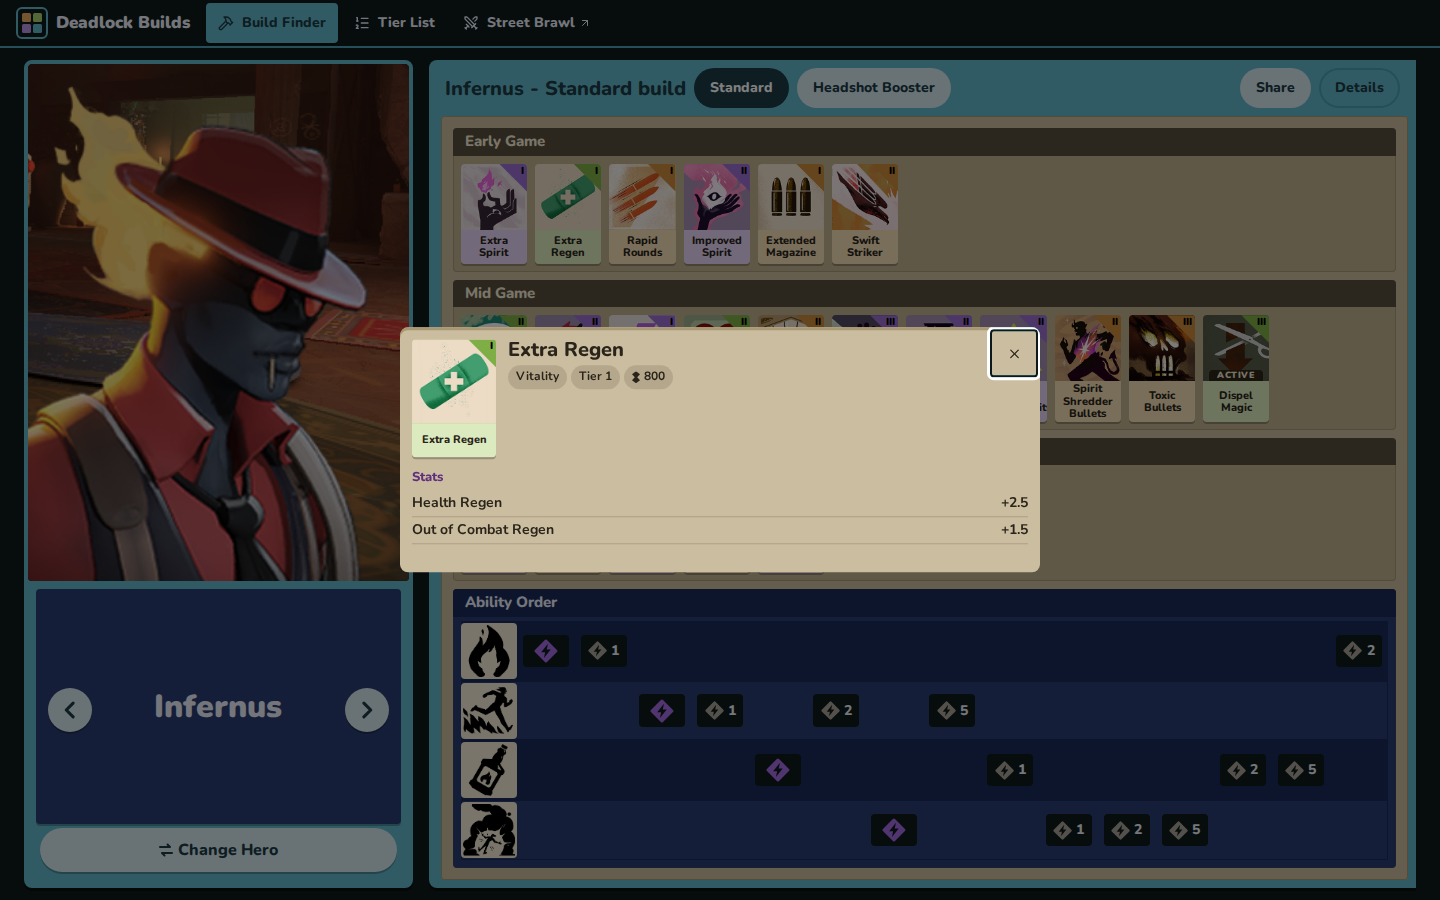
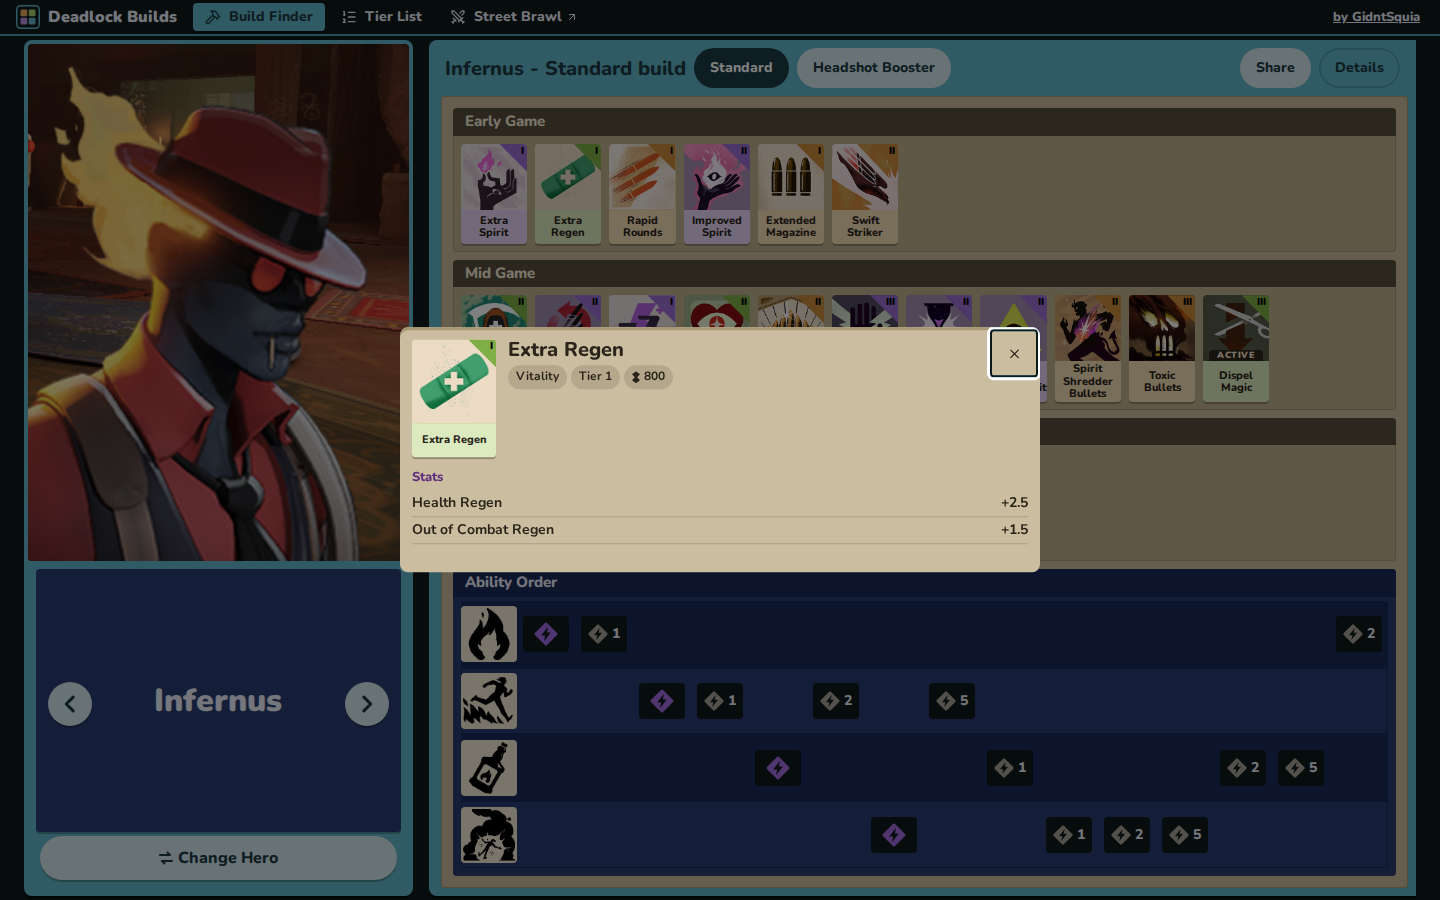
Shorter nav, tighter gap, one-screen tier list, GidntSquia credit
Claude-Session: https://claude.ai/code/session_01Riv5QGJH14bT5qykW2qV5o

diff --git a/src/index.css b/src/index.css
@@ -86,7 +86,7 @@
   --row-head: #564d3d;
   --row-head-ink: #f4ead3;
   --row-body: #bfb08f;
-  --nav-h: 48px;
+  --nav-h: 36px;
   --pill: #d3e6ec;
   --frame-edge: #4a9db2;
 
@@ -856,24 +856,24 @@ button.tile:hover {
   .screen {
     --tile: clamp(64px, min(4.6vw, calc((100vh - var(--nav-h)) * 0.088)), 112px);
     display: grid;
-    --side-w: clamp(220px, min(27vw, calc((100dvh - var(--nav-h) - 24px - 200px) * 0.737)), 600px);
+    --side-w: clamp(220px, min(27vw, calc((100dvh - var(--nav-h) - 8px - 200px) * 0.737)), 600px);
     grid-template-columns: var(--side-w) minmax(0, 1fr);
     gap: 16px;
     align-items: start;
     max-width: 2000px;
     margin: 0 auto;
-    padding: 12px 24px;
+    padding: 4px 24px;
   }
   .hero-side {
     display: block;
     position: sticky;
-    top: 12px;
+    top: 4px;
   }
   .hero-card {
     position: relative;
     display: flex;
     flex-direction: column;
-    height: calc(100dvh - var(--nav-h) - 24px);
+    height: calc(100dvh - var(--nav-h) - 8px);
     width: 100%;
     border-radius: var(--radius-md);
     background: var(--teal);
@@ -927,7 +927,7 @@ button.tile:hover {
     display: inline-flex;
     position: absolute;
     /* centre of the name plate: below the portrait, above the Change Hero button */
-    top: calc((4px + (var(--side-w) - 8px) * 0.5 * 380 / 140 + 8px + 100dvh - var(--nav-h) - 24px - 4px - 60px) / 2 - 22px);
+    top: calc((4px + (var(--side-w) - 8px) * 0.5 * 380 / 140 + 8px + 100dvh - var(--nav-h) - 8px - 4px - 60px) / 2 - 22px);
   }
   .hero-arrow.prev {
     left: 20px;
@@ -982,7 +982,7 @@ button.tile:hover {
   .frame {
     padding: 0 8px 8px 12px;
     border-radius: var(--radius-md) 0 0 var(--radius-md);
-    min-height: calc(100dvh - var(--nav-h) - 24px);
+    min-height: calc(100dvh - var(--nav-h) - 8px);
     display: flex;
     flex-direction: column;
   }
@@ -1055,19 +1055,28 @@ button.tile:hover {
   align-items: center;
   gap: 8px;
   flex: none;
-  min-width: 40px;
-  min-height: 40px;
-  padding: 4px 8px 4px 4px;
+  min-width: 32px;
+  min-height: 32px;
+  padding: 0 8px 0 4px;
   color: var(--navy-ink);
   text-decoration: none;
   font-weight: 900;
-  font-size: 17px;
+  font-size: 16px;
   white-space: nowrap;
 }
 .nav-brand img {
   display: block;
-  width: 32px;
-  height: 32px;
+  width: 24px;
+  height: 24px;
+}
+.nav-credit {
+  margin-left: auto;
+  padding: 0 8px;
+  color: var(--navy-ink);
+  font-size: 13px;
+  font-weight: 800;
+  text-decoration: underline;
+  white-space: nowrap;
 }
 .nav-links {
   display: flex;
@@ -1079,7 +1088,7 @@ button.tile:hover {
   display: inline-flex;
   align-items: center;
   gap: 8px;
-  min-height: 40px;
+  min-height: 28px;
   padding: 0 12px;
   border-radius: var(--radius-sm);
   color: var(--navy-ink);
@@ -1107,15 +1116,24 @@ button.tile:hover {
   box-shadow: var(--shadow-hard);
 }
 @media (max-width: 599px) {
+  :root {
+    --nav-h: 44px;
+  }
   .nav {
     gap: 4px;
     padding: 0 8px;
   }
   .nav-name,
+  .nav-credit,
   .nav-out {
     display: none;
   }
+  .nav-brand {
+    min-width: 40px;
+    min-height: 40px;
+  }
   .nav-link {
+    min-height: 40px;
     gap: 4px;
     padding: 0 8px;
     font-size: 13px;
@@ -1269,5 +1287,86 @@ button.tile:hover {
   .tier-hero img {
     width: 48px;
     height: 48px;
+  }
+}
+
+@media (min-width: 900px) {
+  .tiers {
+    display: flex;
+    flex-direction: column;
+    height: calc(100dvh - var(--nav-h));
+    max-width: 1280px;
+    padding: 8px 16px;
+    overflow: hidden;
+  }
+  .tiers-head h1 {
+    display: inline;
+    font-size: 20px;
+  }
+  .tiers-head p {
+    display: inline;
+    margin: 0 0 0 12px;
+    font-size: 14px;
+  }
+  .tier-rows {
+    flex: 1;
+    min-height: 0;
+    margin-top: 8px;
+    gap: 8px;
+  }
+  .tier-row {
+    flex: 1 1 0;
+    min-height: 0;
+    align-items: stretch;
+  }
+  .tier-tag {
+    width: 96px;
+    padding: 4px;
+  }
+  .tier-heroes {
+    align-content: center;
+    gap: 4px;
+    padding: 4px 8px;
+  }
+  .tier-hero {
+    width: 72px;
+    padding: 2px;
+  }
+  .tier-hero img {
+    width: 52px;
+    height: 52px;
+  }
+  .tier-foot {
+    position: relative;
+    display: flex;
+    justify-content: space-between;
+    gap: 16px;
+    margin-top: 8px;
+  }
+  .tier-rule {
+    margin: 0;
+  }
+  .tier-rule p {
+    position: absolute;
+    bottom: 100%;
+    left: 0;
+    max-width: 640px;
+    margin: 0 0 4px;
+    padding: 8px 12px;
+    background: var(--room2);
+    border-radius: var(--radius-sm);
+    box-shadow: var(--shadow-hard);
+  }
+}
+.tier-credit {
+  color: var(--navy-ink);
+  font-size: 14px;
+}
+.tier-foot {
+  margin-top: 16px;
+}
+@media (min-width: 900px) {
+  .tier-foot {
+    margin-top: 8px;
   }
 }

diff --git a/src/pages/TierList.tsx b/src/pages/TierList.tsx
@@ -5,6 +5,7 @@ import { slugify } from '../slug';
 import { hrefFor } from '../route';
 import type { Hero } from '../types';
 import { log } from '../log';
+import { CREDIT_URL } from '../components/NavBar';
 
 function fmtDate(iso: string) {
   const d = new Date(iso);
@@ -82,13 +83,18 @@ export function TierList({ onPickHero }: { onPickHero: (slug: string) => void })
         </div>
       )}
       {data && (
-        <details className="tier-rule">
-          <summary>How tiers are set</summary>
-          <p>
-            Win rate is wins divided by games, counting only Phantom and above games. S+ is 54% or more, S 52–54%, A 50–52%, B 48–50%, C 46–48%, D under 46%.
-            Best win rate comes first inside a tier.
-          </p>
-        </details>
+        <div className="tier-foot">
+          <details className="tier-rule">
+            <summary>How tiers are set</summary>
+            <p>
+              Win rate is wins divided by games, counting only Phantom and above games. S+ is 54% or more, S 52–54%, A 50–52%, B 48–50%, C 46–48%, D under 46%.
+              Best win rate comes first inside a tier.
+            </p>
+          </details>
+          <span className="tier-credit">
+            Made by <a href={CREDIT_URL}>GidntSquia</a>
+          </span>
+        </div>
       )}
     </main>
   );

diff --git a/src/components/NavBar.tsx b/src/components/NavBar.tsx
@@ -2,6 +2,7 @@ import { ArrowUpRight, Hammer, ListOrdered, Swords } from 'lucide-react';
 import { hrefFor, type Page } from '../route';
 
 export const BRAWL_URL = 'https://gidntsquia.github.io/deadlock-street-brawl-helper/';
+export const CREDIT_URL = 'https://github.com/GidntSquia';
 const LOGO = `${(import.meta as { env?: { BASE_URL?: string } }).env?.BASE_URL ?? '/'}favicon.svg`;
 
 /** Top bar on every page: logo + name, then Build Finder / Tier List (in-app) and Street Brawl (its own site). */
@@ -34,7 +35,7 @@ export function NavBar({ page, onNavigate }: { page: Page; onNavigate: (p: Page)
           onNavigate('build');
         }}
       >
-        <img src={LOGO} alt="" width={32} height={32} />
+        <img src={LOGO} alt="" width={24} height={24} />
         <span className="nav-name">Deadlock Builds</span>
       </a>
       <nav className="nav-links" aria-label="Main">
@@ -46,6 +47,9 @@ export function NavBar({ page, onNavigate }: { page: Page; onNavigate: (p: Page)
           <ArrowUpRight className="nav-out" aria-hidden="true" />
         </a>
       </nav>
+      <a className="nav-credit" href={CREDIT_URL}>
+        by GidntSquia
+      </a>
     </header>
   );
 }

diff --git a/AGENTS.md b/AGENTS.md
@@ -24,8 +24,8 @@ Static React app that generates Deadlock hero builds in the browser from a local
   `docs/tier-list.md`, data `public/data/hero-stats.json` from `fetch-data`, `--hero-stats-only` for just that). `vite.config.ts`
   copies `dist/index.html` to `dist/tier-list/index.html` and `404.html` so direct loads work on Pages. Add a page = a route in
   `src/route.ts` + a copy in that plugin.
-- Top nav (`components/NavBar.tsx`, `<header class="nav">`, height `--nav-h` 48px) is on every page: logo (`favicon.svg`), name,
-  Build Finder, Tier List, Street Brawl (external link). Layout heights subtract `--nav-h`; keep new full-height rules doing so.
+- Top nav (`components/NavBar.tsx`, `<header class="nav">`, height `--nav-h` 36px (44px on phone)) is on every page: logo (`favicon.svg`), name,
+  Build Finder, Tier List, Street Brawl (external link), and a "by GidntSquia" credit link at the right (hidden on phone; the tier list footer also credits). The tier list page must fit one screen at >=900px wide (checked at 1440x900 and 1920x1080). Layout heights subtract `--nav-h`; keep new full-height rules doing so.
   Favicon links in `index.html` carry `?v=2`: browsers cache tab icons hard, bump it when the icon changes.
 - Screen layout: one in-game style build window (`BuildView.tsx`): hero button, title, build
   pills, Share, Details, three phase rows, Ability Order grid (`.ap-grid`, one row per ability, one chip per point). The only top bar is the nav; no footer. The hero
